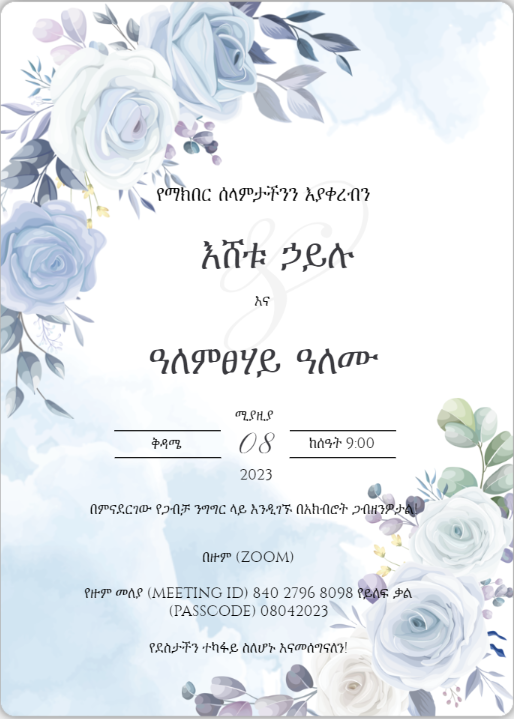
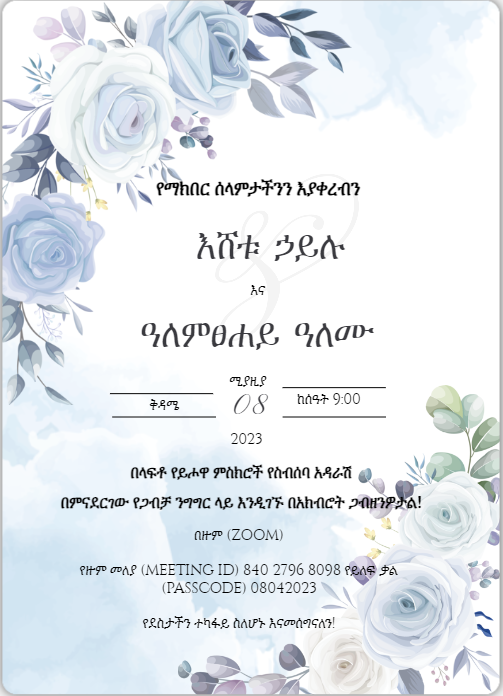
c

diff --git a/index.html b/index.html
@@ -45,20 +45,20 @@
       <div class="date-div">
         <p class="date">ቅዳሜ ሚያዚያ 08 2023 ከሰዓት በ9:00 ሰዓት በላፍቶ የይሖዋ ምስክሮች የስብሰባ አዳራሽ</p></div>
       <h4 class="read-our-story text-center">
-        <button class="button" onclick="window.location.href='https://jworg.zoom.us/j/84027968098?pwd=dy81YzQwbHluZ1NjM2JVVm9BZHRrUT09';">
+        <button class="bootstrap-btn" onclick="window.location.href='https://jworg.zoom.us/j/84027968098?pwd=dy81YzQwbHluZ1NjM2JVVm9BZHRrUT09';">
           በዙም ይግቡ
         </button>
    
        
       </h4>
       <h4 class="read-our-story text-center">
-        <button class="button" onclick="window.location.href='story/photo/index.html';">
+        <button class="bootstrap-btn" onclick="window.location.href='story/photo/index.html';">
           ፎቶዎች
         </button>
    
       </h4>
       <h4 class="read-our-story text-center">
-        <button class="button" onclick="window.location.href='images/assets/መጥሪያ.png';">
+        <button class="bootstrap-btn" onclick="window.location.href='images/assets/መጥሪያ.png';">
           የመጥሪያ ካርድ
         </button>
        

diff --git a/css/main.css b/css/main.css
@@ -389,11 +389,25 @@ h1, h3, .mystery {
 h4 {
   font-size: 2em;
 }
-.button{
-  background-color: #F6F195;
+.bootstrap-btn {
+	display: inline-block;
+	font-weight: 400;
+	color: #212529;
+	text-align: center;
+	border: 1px solid transparent;
+	padding: .375rem .75rem;
+	font-size: 1.5rem;
+	line-height: 1.5;
+	border-radius: .25rem;
+	color: #fff;
+	background-color: #f4409f;
+  width: 100px;
+}
 
-  border-radius: 15%;
-  font-size: medium;
+
+.bootstrap-btn:hover{
+  	background-color: #0069d9;
+
 }
 .footer {
   display: flex;

diff --git a/story/photo/index.html b/story/photo/index.html
@@ -26,7 +26,7 @@
 <div class="container-fluid">
   <div class="row">
     <div class="col-md-10 col-md-offset-1 col-sm-12">
-      <h3 class="text-center">በቅርብ ቀን</h3>
+      <h3 background-color: #f4409f; class="text-center">በቅርብ ቀን</h3>
       
      <!-- <div class="get-married">
         <img class="i-left" src="images/assets/party-left.png">
